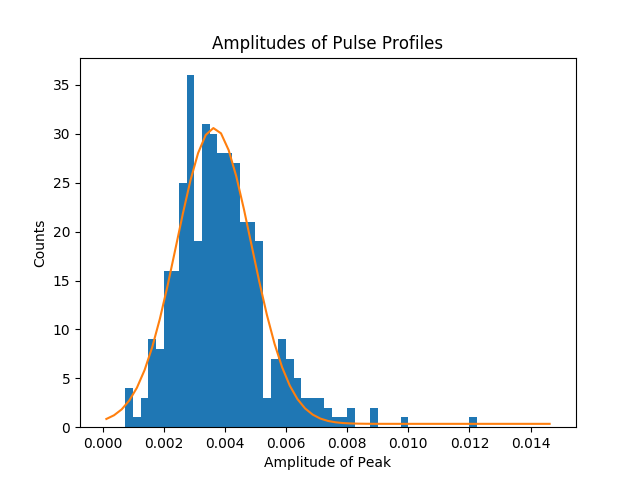
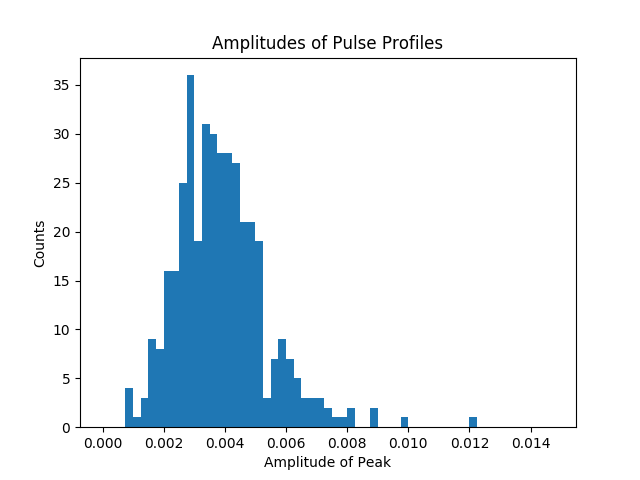
alt version

diff --git a/PulseCharacteristics/ampfit2.py b/PulseCharacteristics/ampfit2.py
@@ -135,42 +135,19 @@ def fit(pulsarname, timewidth):
     if (pulsarname == '1821'):
         binwidths = list(np.arange(0,0.015 , 0.00025))
     if (pulsarname == 'crab'):
-        binwidths = list(np.arange(16, 20, 0.2))
+        binwidths = list(np.arange(16, 20, 0.1))
     plt.hist(amplitudes, bins = binwidths) # makes histogram of amplitudes
   
-    # Makes a line plot from the histogram
-    amplitudes = np.array(amplitudes)  # uses pulse phases in nth profile
-    yvals, xlims = np.histogram(amplitudes,bins=binwidths) # finds heights and sides of each bin, no plot
-    xvals = xlims[:-1] + np.diff(xlims)/2 # finds middle of each bin, to be x values of line plot
+    mean = np.mean(amplitudes)
+    sd = np.std(amplitudes)
 
-    # Use convolution to find the estimate for the location of the peak
-    width=0.005
-    if (pulsarname == 'crab'):
-        width = 1
-    x = xvals
-    template = np.exp(-((x)/width)**2) # template for convolution
-    convo = []
-    for i in range(len(yvals)):
-        convo.append(np.sum(yvals*np.roll(template,i))) # finds convolution
-    m = np.max(convo) # finds peak value of convolution
-    maxloc = xvals[convo.index(m)]  # finds the location of the peak of convolution
-    
-    if (pulsarname == '1937'):    
-        popt, pcov = curve_fit(gauss, xvals, yvals, p0= [max(yvals),maxloc, 0.005, min(yvals)], bounds = ((0, 0, 0, 0), (np.inf, np.inf, np.inf, np.inf))) # uses gaussian function to do a curve fit to the line version fo the histogram; uses maxloc for the guess for location
-    if (pulsarname == '1821'):
-        popt, pcov = curve_fit(gauss, xvals, yvals, p0= [max(yvals),maxloc, 0.005, min(yvals)], bounds = ((0, 0, 0, 0), (np.inf, np.inf, np.inf, np.inf))) 
-    if (pulsarname == 'crab'):
-        popt, pcov = curve_fit(gauss, xvals, yvals, p0= [max(yvals),maxloc, 1, min(yvals)], bounds = ((0, 0, 0, 0), (np.inf, np.inf, np.inf, np.inf))) 
-    width = popt[2] #2*np.sqrt(2*(math.log(2)))*(popt[2])
-    plt.plot(xvals, gauss(xvals,*popt))
-    errorbar = np.absolute(pcov[2][2])**0.5
     plt.xlabel('Amplitude of Peak')
     plt.ylabel('Counts')
     plt.title('Amplitudes of Pulse Profiles')
     f = open("amphistdata.txt", "a")
-    print("width = ", width, file=f)
-    print("amplitude = ", popt[0], file=f)
-    print("center = ", popt[1], file=f)
+    print("width = ", sd, file=f)
+    print("mean = ", mean, file=f)
+   # print("center = ", popt[1], file=f)
     f.close()
     if (pulsarname == '1937'):
         plt.savefig('1937_%s.png' % timewidth)
@@ -179,26 +156,30 @@ def fit(pulsarname, timewidth):
     if (pulsarname == 'crab'):
         plt.savefig('crab_%s.png' % timewidth)
     plt.clf()
-    return(popt[0], width, errorbar)
+    return(mean, sd)
 
 amp = []
 width = []
 errorbars = []
 timewidth=[]
 for twidth in range(1800, 9000, 900):
-   # if (twidth == 1800):
-    #    twidth = 2100
-    a, w, e = fit('1821', twidth)
+    if (twidth == 1800):
+        twidth = 2100
+    a, w = fit('1937', twidth)
     amp.append(a)
     width.append(w)
-    errorbars.append(e)
+   # errorbars.append(e)
     timewidth.append(twidth)
-#plt.plot(timewidth, width, '.', color = 'b')
-#popt, pcov = curve_fit(power, timewidth, width)
-#plt.plot(timewidth, power(timewidth, *popt))
-plt.errorbar(timewidth, width, yerr = errorbars, fmt = 'o')
+plt.plot(timewidth, width, 'o')
+popt, pcov = curve_fit(power, timewidth, width)
+plt.plot(timewidth, power(timewidth, *popt))
+y =[]
+for i in timewidth:
+    y.append(1/(i**0.5))
+#plt.plot(timewidth, y, '--')
+#plt.errorbar(timewidth, width, yerr = errorbars, fmt = 'o')
 plt.title("Widths of Amplitude Histograms")
-plt.xlabel("Timewidth (seconds)")
+plt.xlabel("Integration Time (seconds)")
 plt.ylabel("Width (counts/second)")
 plt.show()
 

diff --git a/PulseCharacteristics/ampfit.py b/PulseCharacteristics/ampfit.py
@@ -185,10 +185,10 @@ amp = []
 width = []
 errorbars = []
 timewidth=[]
-for twidth in range(60, 210, 30):
- #   if (twidth == 1800):
-  #      twidth = 2100
-    a, w, e = fit('crab', twidth)
+for twidth in range(1800, 9000, 900):
+    if (twidth == 1800):
+        twidth = 2100
+    a, w, e = fit('1937', twidth)
     amp.append(a)
     width.append(w)
     errorbars.append(e)
@@ -196,9 +196,13 @@ for twidth in range(60, 210, 30):
 #plt.plot(timewidth, width, 'o')
 popt, pcov = curve_fit(power, timewidth, width)
 plt.plot(timewidth, power(timewidth, *popt))
+y =[]
+for i in timewidth:
+    y.append(1/(i**0.5))
+#plt.plot(timewidth, y, '--')
 plt.errorbar(timewidth, width, yerr = errorbars, fmt = 'o')
 plt.title("Widths of Amplitude Histograms")
-plt.xlabel("Timewidth (seconds)")
+plt.xlabel("Integration Time (seconds)")
 plt.ylabel("Width (counts/second)")
 plt.show()
 
